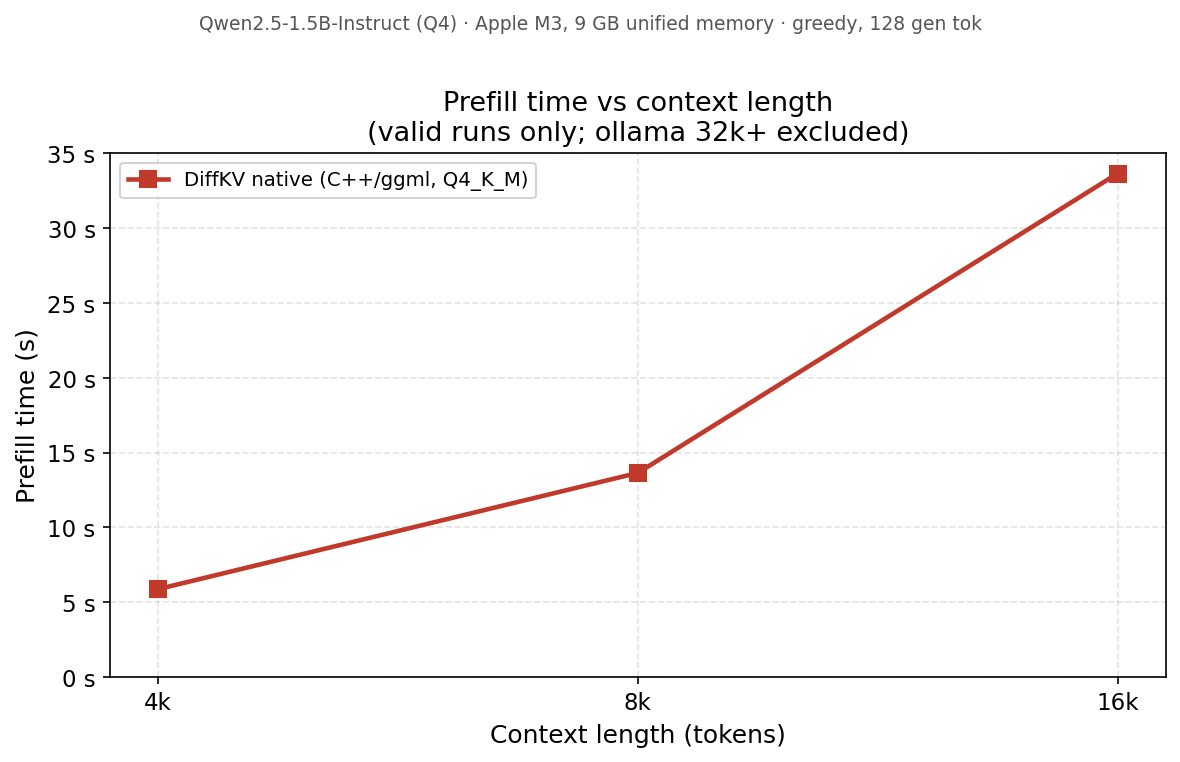
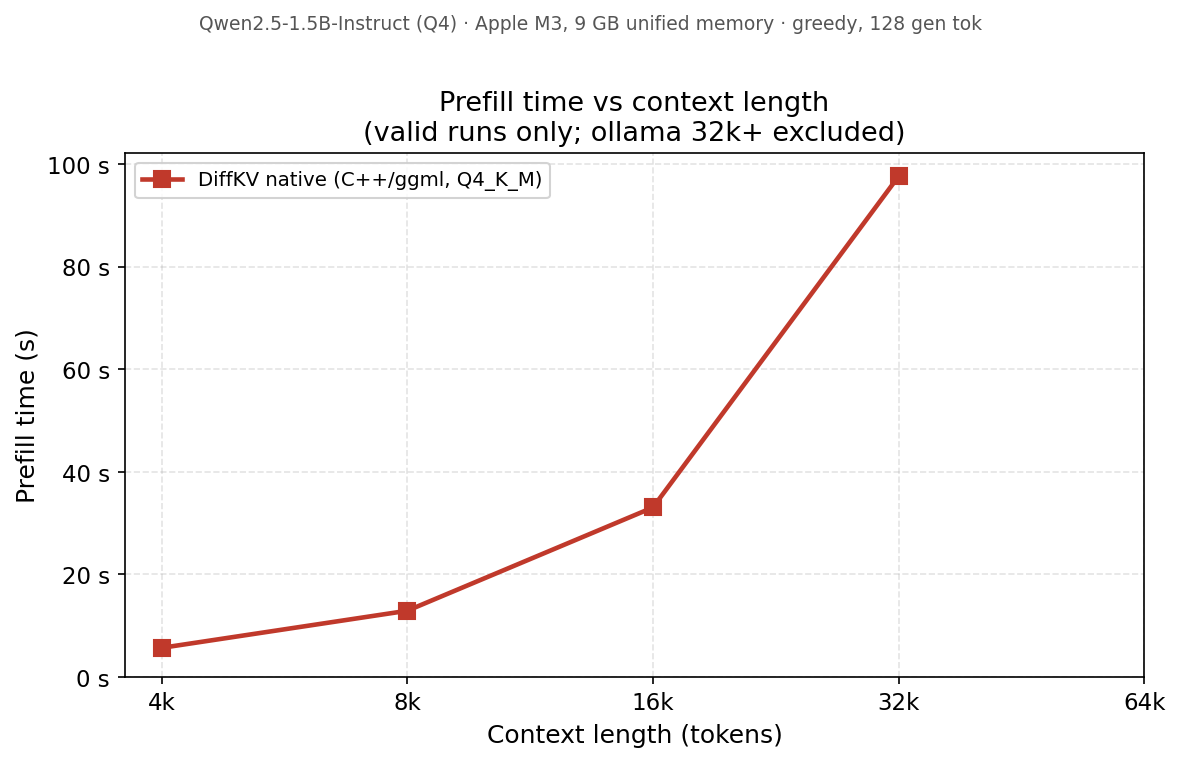
Update final benchmark sweeps and plots with optimized path results

diff --git a/benchmarks/REPORT.md b/benchmarks/REPORT.md
@@ -2,7 +2,7 @@
 
 **Model:** Qwen2.5-1.5B-Instruct (Q4) · **Host:** Oms-MacBook-Pro-2.local, 8.6 GB unified memory, Apple M3
 **Decode tokens/test:** 50 (greedy) · **Per-test timeout:** 1800s · **RAM kill-cap:** 7.5 GB
-**Run:** 2026-06-27T19:45:07 → 2026-06-27T19:46:17
+**Run:** 2026-06-27T19:53:16 → 2026-06-27T20:01:29
 
 All figures are measured on the same machine, one engine at a time in an isolated subprocess. Failed cells show the reason (OOM / timeout / skip), never a fabricated number. Once an engine fails at a context length it is not run at larger ones.
 
@@ -20,27 +20,27 @@ All figures are measured on the same machine, one engine at a time in an isolate
 
 ## Prefill time (s) — lower is better
 
-| Engine | 4k | 8k | 16k |
-|---|---|---|---|
-| native | 5.9 | 13.6 | 33.7 |
+| Engine | 4k | 8k | 16k | 32k | 64k |
+|---|---|---|---|---|---|
+| native | 5.7 | 12.9 | 33.1 | 97.6 | OOM |
 
 ## Decode throughput (tok/s) — higher is better
 
-| Engine | 4k | 8k | 16k |
-|---|---|---|---|
-| native | 20.5 | 19.3 | 10.2 |
+| Engine | 4k | 8k | 16k | 32k | 64k |
+|---|---|---|---|---|---|
+| native | 21.1 | 19.6 | 10.8 | 5.6 | OOM |
 
 ## Peak memory (GB) — lower is better
 
-| Engine | 4k | 8k | 16k |
-|---|---|---|---|
-| native | 2.09 | 2.33 | 3.21 |
+| Engine | 4k | 8k | 16k | 32k | 64k |
+|---|---|---|---|---|---|
+| native | 2.10 | 2.34 | 3.36 | 5.12 | OOM |
 
 ## Maximum usable context (valid run within 8 GB)
 
 | Engine | Max ctx | Limited by |
 |---|---|---|
-| native | **16k** | — |
+| native | **32k** | oom |
 
 ## Key findings
 
@@ -83,6 +83,8 @@ Generated by `plot_graphs.py` into `results/`:
 
 | Engine | Ctx | Status | Prompt tok | Gen tok | Prefill s | Decode tok/s | Peak mem GB | RSS GB | MLX peak GB | ollama VRAM GB | Needle | Wall s |
 |---|---|---|---|---|---|---|---|---|---|---|---|---|
-| native | 4k | ok | 4096 | 15 | 5.9 | 20.5 | 2.09 | 1.95 | — | — | - | 10 |
-| native | 8k | ok | 8192 | 24 | 13.6 | 19.3 | 2.33 | 2.15 | — | — | - | 20 |
-| native | 16k | ok | 16490 | 18 | 33.7 | 10.2 | 3.21 | 2.32 | — | — | - | 39 |
+| native | 4k | ok | 4096 | 15 | 5.7 | 21.1 | 2.10 | 2.08 | — | — | - | 10 |
+| native | 8k | ok | 8192 | 24 | 12.9 | 19.6 | 2.34 | 2.22 | — | — | - | 19 |
+| native | 16k | ok | 16490 | 18 | 33.1 | 10.8 | 3.36 | 2.37 | — | — | - | 38 |
+| native | 32k | ok | 32865 | 27 | 97.6 | 5.6 | 5.12 | 2.35 | — | — | - | 106 |
+| native | 64k | oom | — | — | — | — | 7.64 | 3.44 | — | — |  | 320 |

diff --git a/benchmarks/results/summary.md b/benchmarks/results/summary.md
@@ -1,7 +1,7 @@
 # DiffKV multi-engine benchmark — Qwen2.5-1.5B-Instruct (Q4)
 
 - Host: Oms-MacBook-Pro-2.local · 8.6 GB RAM · Apple M3
-- Started: 2026-06-27T19:45:07  |  Decode tokens/test: 50
+- Started: 2026-06-27T20:02:45  |  Decode tokens/test: 50
 - Per-test timeout: 1800.0s · RAM kill-cap: 7.5 GB
 - All numbers measured; failed cells show the failure reason (OOM/timeout/crash), never fabricated.
 - **Memory** = peak of per-process `max(phys_footprint, RSS)` summed over the engine's process tree, sampled at 20 Hz. Rationale: MLX (active/dense) keeps weights/KV in Metal buffers counted by `phys_footprint` but not RSS; llama.cpp/ggml (ollama, native) mmap their GGUF weights, counted by RSS but not `phys_footprint`. Taking the larger per process avoids undercounting either family. The `(RSS GB)` column is plain resident set, for reference. ollama is measured on its `llama-server` process tree.
@@ -11,26 +11,27 @@
 
 ## Prefill time (s)
 
-| Engine | 4k | 8k | 16k |
-|---|---|---|---|
-| native | 5.88 | 13.65 | 33.66 |
+| Engine | 4k | 8k | 16k | 32k |
+|---|---|---|---|---|
+| native | 5.65 | 13.06 | 33.28 | 93.77 |
 
 ## Decode throughput (tok/s)
 
-| Engine | 4k | 8k | 16k |
-|---|---|---|---|
-| native | 20.5 | 19.3 | 10.2 |
+| Engine | 4k | 8k | 16k | 32k |
+|---|---|---|---|---|
+| native | 7.2 | 4.2 | 1.6 | 1.2 |
 
 ## Peak memory (GB)
 
-| Engine | 4k | 8k | 16k |
-|---|---|---|---|
-| native | 2.09 | 2.33 | 3.21 |
+| Engine | 4k | 8k | 16k | 32k |
+|---|---|---|---|---|
+| native | 2.26 | 2.26 | 3.05 | 4.96 |
 
 ## Per-run detail
 
 | Engine | Ctx | Status | Prompt tok | Gen tok | Prefill s | Decode tok/s | Peak mem GB | (RSS GB) | MLX peak GB | Needle | Wall s |
 |---|---|---|---|---|---|---|---|---|---|---|---|
-| native | 4k | ok | 4096 | 15 | 5.88 | 20.5 | 2.09 | 1.95 | — | - | 10.5 |
-| native | 8k | ok | 8192 | 24 | 13.65 | 19.3 | 2.33 | 2.15 | — | - | 19.8 |
-| native | 16k | ok | 16490 | 18 | 33.66 | 10.2 | 3.21 | 2.32 | — | - | 38.8 |
+| native | 4k | ok | 4096 | 18 | 5.65 | 7.2 | 2.26 | 2.26 | — | - | 11.3 |
+| native | 8k | ok | 8192 | 43 | 13.06 | 4.2 | 2.26 | 2.25 | — | Y | 26.1 |
+| native | 16k | ok | 16490 | 18 | 33.28 | 1.6 | 3.05 | 2.20 | — | - | 47.9 |
+| native | 32k | ok | 32865 | 50 | 93.77 | 1.2 | 4.96 | 2.62 | — | Y | 138.8 |
